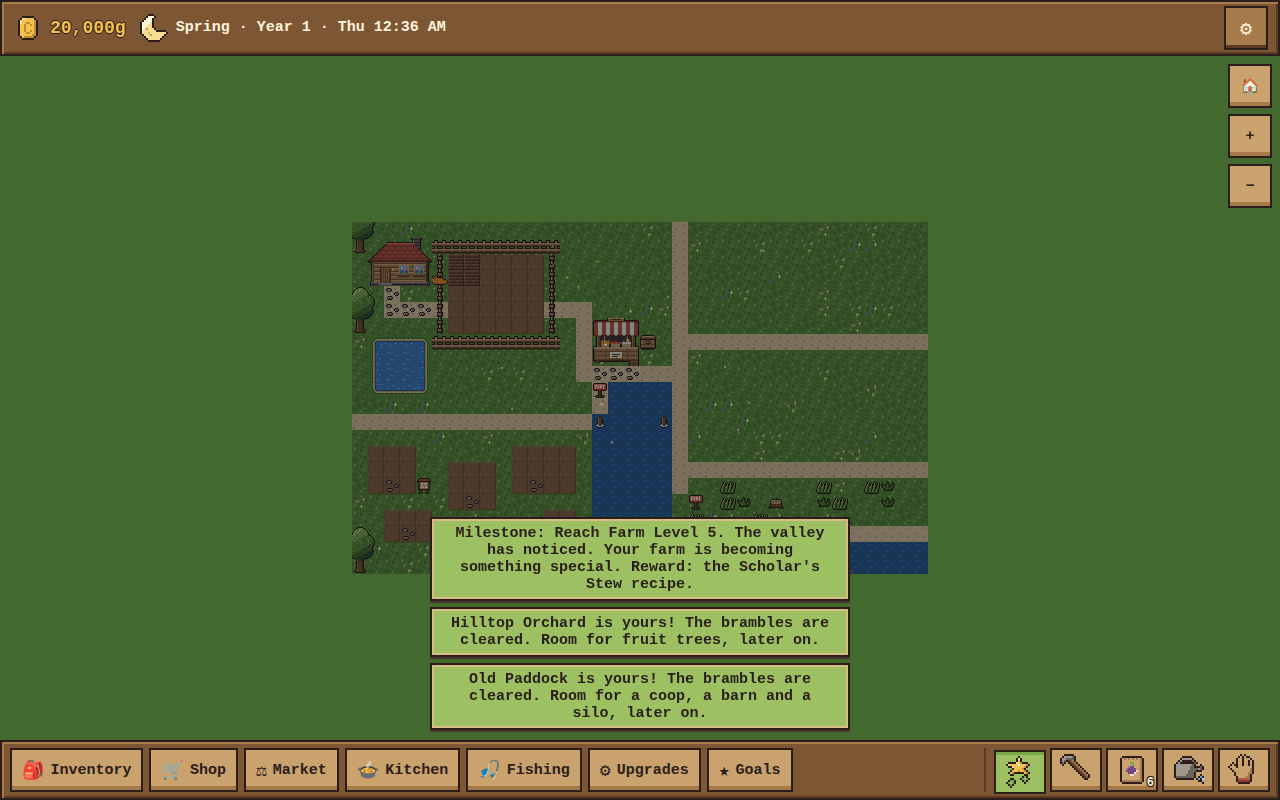
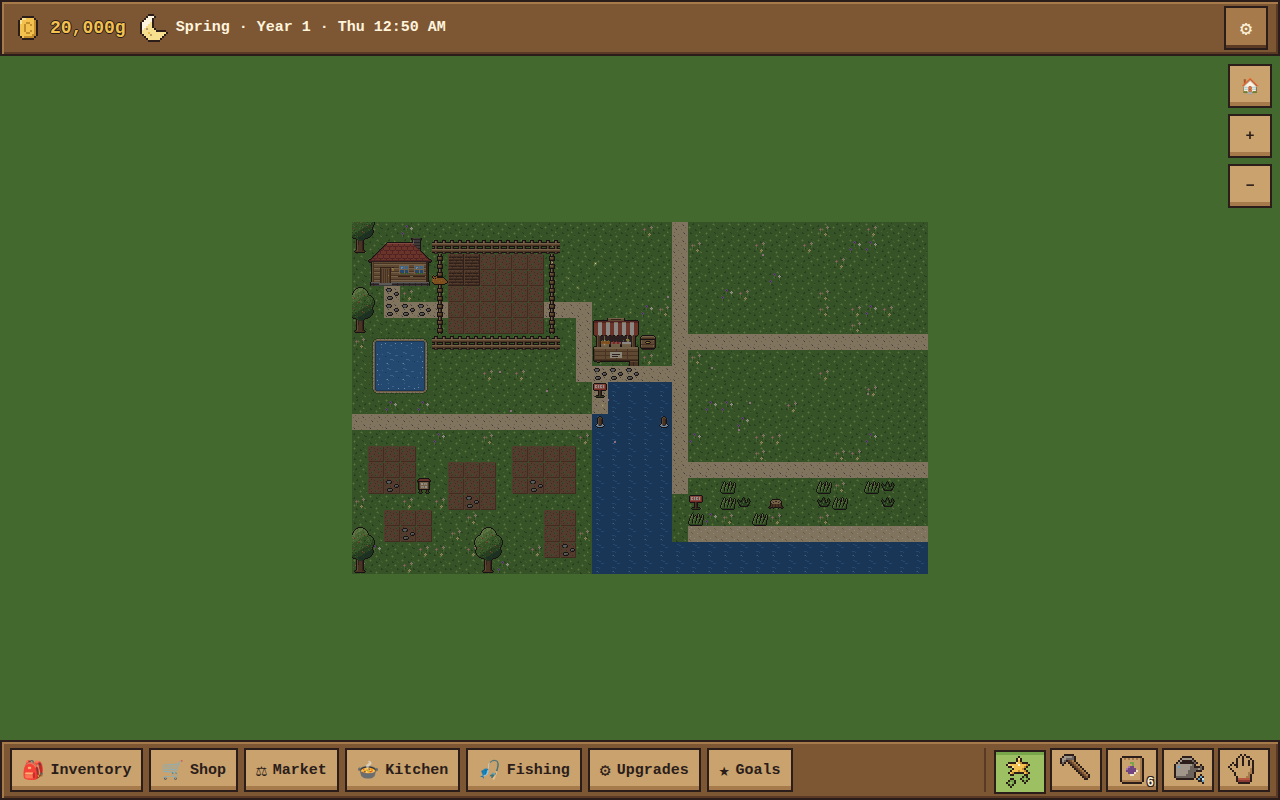
Docs and handoff for v2 phase 01; formatting; fresh screenshots
Claude-Session: https://claude.ai/code/session_017eiNihxdGxUQddQCaLHPR2

Changed region(s): [[0.3125, 0.625, 0.6875, 0.9375]]

diff --git a/src/ui/edgePips.ts b/src/ui/edgePips.ts
@@ -35,8 +35,20 @@ export class EdgePips {
       const b = h(
         'button',
         { type: 'button', class: 'edge-pip', hidden: true, 'data-pip': kind },
-        h('img', { class: 'pixel edge-pip-arrow', alt: '', width: 32, height: 32, src: spriteDataUrl('ui_pip_arrow') }),
-        h('img', { class: 'pixel edge-pip-icon', alt: '', width: 24, height: 24, src: spriteDataUrl(icons[kind] ?? ICON[kind]) }),
+        h('img', {
+          class: 'pixel edge-pip-arrow',
+          alt: '',
+          width: 32,
+          height: 32,
+          src: spriteDataUrl('ui_pip_arrow'),
+        }),
+        h('img', {
+          class: 'pixel edge-pip-icon',
+          alt: '',
+          width: 24,
+          height: 24,
+          src: spriteDataUrl(icons[kind] ?? ICON[kind]),
+        }),
       );
       b.addEventListener('click', () => {
         const at = b.dataset.at?.split(',').map(Number);
@@ -51,7 +63,9 @@ export class EdgePips {
   update(targets: readonly PipTarget[]): void {
     const pips = edgePips(targets, this.renderer.viewRect);
     const box = this.host.getBoundingClientRect();
-    const key = pips.map((p) => `${p.kind}${p.col},${p.row}${p.side}${Math.round(p.x)},${Math.round(p.y)}`).join('|');
+    const key = pips
+      .map((p) => `${p.kind}${p.col},${p.row}${p.side}${Math.round(p.x)},${Math.round(p.y)}`)
+      .join('|');
     if (key === this.key) return;
     this.key = key;
     for (const b of this.buttons.values()) b.hidden = true;

diff --git a/src/render/renderer.ts b/src/render/renderer.ts
@@ -262,7 +262,9 @@ export class Renderer {
     this.canvas.addEventListener('wheel', (e) => this.wheel(e), { passive: false });
     this.canvas.addEventListener('contextmenu', (e) => e.preventDefault());
     document.addEventListener('keydown', (e) => this.keyDown(e));
-    document.addEventListener('keyup', (e) => this.keysHeld.delete(e.key.length === 1 ? e.key.toLowerCase() : e.key));
+    document.addEventListener('keyup', (e) =>
+      this.keysHeld.delete(e.key.length === 1 ? e.key.toLowerCase() : e.key),
+    );
     window.addEventListener('blur', () => this.keysHeld.clear());
     this.farmhand.onWork = (job) => {
       if (job.sprite) this.fx.push({ sprite: job.sprite, col: job.col, row: job.row, start: this.lastTime });
@@ -606,7 +608,13 @@ export class Renderer {
     if (this.resting && this.keysHeld.size === 0) return; // nothing moves: no work, no garbage
     this.keyPan(dtMs, nowMs);
     const arrived = easeToward(this.cam, this.target, dtMs, this.reducedMotion());
-    if (arrived && !this.resting && !this.press.active && this.pointers.size === 0 && this.keysHeld.size === 0) {
+    if (
+      arrived &&
+      !this.resting &&
+      !this.press.active &&
+      this.pointers.size === 0 &&
+      this.keysHeld.size === 0
+    ) {
       this.resting = true;
       this.opts.onCameraRest?.(this.atDefault ? null : { x: this.cam.x, y: this.cam.y, zoom: this.cam.zoom });
     }

diff --git a/tests/scene.test.ts b/tests/scene.test.ts
@@ -44,14 +44,24 @@ describe('scene layout', () => {
     const { animated } = buildLayout(START_GRID);
     const home = animated.filter((a) => a.col < 20 && a.row < 12);
     expect(home.filter((a) => a.sprite === 'tile_water')).toHaveLength(4); // the pond's middle
-    expect(home.filter((a) => a.sprite === 'tile_sea').map((a) => `${a.col},${a.row}`).sort()).toEqual(
-      ['16,10', '16,11', '17,10', '17,11', '18,10', '18,11', '19,10', '19,11'].sort(),
-    );
+    expect(
+      home
+        .filter((a) => a.sprite === 'tile_sea')
+        .map((a) => `${a.col},${a.row}`)
+        .sort(),
+    ).toEqual(['16,10', '16,11', '17,10', '17,11', '18,10', '18,11', '19,10', '19,11'].sort());
     expect(animated.some((a) => a.sprite === 'tile_sea' && a.row === 21 && a.col === 35)).toBe(true);
   });
 
   it('keeps every v1 tile of the home region as v1 drew it, the two documented changes aside', () => {
-    const { ground } = buildLayout({ cols: 8, rows: 6 }, ['farm_1', 'farm_2', 'farm_3', 'farm_4', 'river', 'ocean']);
+    const { ground } = buildLayout({ cols: 8, rows: 6 }, [
+      'farm_1',
+      'farm_2',
+      'farm_3',
+      'farm_4',
+      'river',
+      'ocean',
+    ]);
     expect(ground[2]![6]).toBe('tile_soil_dry');
     expect(ground[7]![13]).toBe('tile_soil_dry');
     expect(ground[9]![14]).toBe('tile_path');

diff --git a/src/render/scene.ts b/src/render/scene.ts
@@ -280,9 +280,11 @@ const SCENERY: readonly Scenery[] = [
   // The Community Board in the town square.
   { sprite: 'obj_board', col: WORLD_LAYOUT.boardTile.col, row: WORLD_LAYOUT.boardTile.row },
   // The town's building sites: a few old stones where each building stood.
-  ...Object.values(WORLD_LAYOUT.townSites).map(
-    (r): Scenery => ({ sprite: 'obj_stones', col: r.col + 1, row: r.row + r.rows - 1 }),
-  ),
+  ...Object.values(WORLD_LAYOUT.townSites).map((r): Scenery => ({
+    sprite: 'obj_stones',
+    col: r.col + 1,
+    row: r.row + r.rows - 1,
+  })),
   // Each locked parcel: its "For sale" sign and overgrowth (tall grass, weeds and a stump or two).
   ...PARCEL_IDS.flatMap((id) => [
     { sprite: 'obj_for_sale', ...WORLD_LAYOUT.forSaleSigns[id], untilParcel: id },

diff --git a/src/ui/upgradesPanel.ts b/src/ui/upgradesPanel.ts
@@ -2,7 +2,14 @@
 // seed planter, auto-seller, greenhouse), the tools and storage. Each card shows the level, what the
 // next level does, its cost and what still locks it; buying flashes the card and says what changed.
 
-import { CROP_IDS, PARCEL_IDS, type ExpansionId, type ItemId, type ParcelId, type UpgradeId } from '../data/ids';
+import {
+  CROP_IDS,
+  PARCEL_IDS,
+  type ExpansionId,
+  type ItemId,
+  type ParcelId,
+  type UpgradeId,
+} from '../data/ids';
 import type { PlacedKind } from '../core/state';
 import type { UpgradeCategory } from '../data/types';
 import { FARM_EXPANSIONS, FISHING_EXPANSIONS } from '../data/expansions';

diff --git a/src/data/ids.ts b/src/data/ids.ts
@@ -104,7 +104,8 @@ export type ExpansionId = 'farm_1' | 'farm_2' | 'farm_3' | 'farm_4' | 'river' | 
 export type ParcelId = 'orchard' | 'yard' | 'meadow';
 
 /** Town projects (v2 phase 02). Only their building sites exist in v2 phase 01, as world layout. */
-export type TownProjectId = 'old_bridge' | 'fountain' | 'bakery' | 'bandstand' | 'lighthouse' | 'community_hall';
+export type TownProjectId =
+  'old_bridge' | 'fountain' | 'bakery' | 'bandstand' | 'lighthouse' | 'community_hall';
 
 export type BuffType =
   'growth' | 'sellPrice' | 'fishingLuck' | 'fishingSpeed' | 'cookSpeed' | 'automationSpeed' | 'xp';

diff --git a/src/core/prefs.ts b/src/core/prefs.ts
@@ -48,7 +48,8 @@ export const DEFAULT_PREFS: Prefs = {
 function sanitizeCamera(raw: unknown): CameraPref | null {
   if (!raw || typeof raw !== 'object') return null;
   const { x, y, zoom } = raw as Record<string, unknown>;
-  if (typeof x !== 'number' || !Number.isFinite(x) || typeof y !== 'number' || !Number.isFinite(y)) return null;
+  if (typeof x !== 'number' || !Number.isFinite(x) || typeof y !== 'number' || !Number.isFinite(y))
+    return null;
   if (typeof zoom !== 'number' || !Number.isInteger(zoom) || zoom < 1 || zoom > MAX_CAMERA_ZOOM) return null;
   return { x, y, zoom };
 }

diff --git a/src/main.ts b/src/main.ts
@@ -706,7 +706,8 @@ function updatePips(): void {
   const s = game.state;
   pipTargets.length = 0;
   for (let i = 0; i < s.farm.plots.length; i++)
-    if (isReady(s.farm.plots[i]!, GAME_DATA)) pipTargets.push({ kind: 'crop', ...tileOfPlot(s.farm.grid, i) });
+    if (isReady(s.farm.plots[i]!, GAME_DATA))
+      pipTargets.push({ kind: 'crop', ...tileOfPlot(s.farm.grid, i) });
   for (let i = 0; i < s.farm.greenhouse.length; i++)
     if (isReady(s.farm.greenhouse[i]!, GAME_DATA))
       pipTargets.push({ kind: 'crop', ...tileOfPlot(s.farm.grid, 1000 + i) });

diff --git a/e2e/helpers.ts b/e2e/helpers.ts
@@ -22,7 +22,10 @@ async function onScreen(page: Page, col: number, row: number): Promise<{ x: numb
       const box = document.getElementById('scene')!.getBoundingClientRect();
       const margin = 24;
       const inside =
-        at.x > box.left + margin && at.x < box.right - 60 && at.y > box.top + margin && at.y < box.bottom - margin;
+        at.x > box.left + margin &&
+        at.x < box.right - 60 &&
+        at.y > box.top + margin &&
+        at.y < box.bottom - margin;
       return inside ? { x: at.x, y: at.y } : null;
     },
     [col, row],

diff --git a/src/render/particles.ts b/src/render/particles.ts
@@ -193,7 +193,10 @@ export class ParticleSystem {
     for (let i = 0; i < this.pool.length; i++) {
       const p = this.pool[i]!;
       if (!p.alive) continue;
-      if (view && (p.x < view.x - 8 || p.y < view.y - 8 || p.x > view.x + view.w + 8 || p.y > view.y + view.h + 8))
+      if (
+        view &&
+        (p.x < view.x - 8 || p.y < view.y - 8 || p.x > view.x + view.w + 8 || p.y > view.y + view.h + 8)
+      )
         continue;
       const t = p.age / p.life;
       f.globalAlpha = p.kind === 'steam' ? 0.6 * (1 - t) : 1 - t * t;

diff --git a/src/render/camera.ts b/src/render/camera.ts
@@ -215,7 +215,8 @@ export class PressGesture {
   /** Returns true once the press has become a pan. */
   move(x: number, y: number): boolean {
     if (!this.active) return false;
-    if (!this.panning && Math.hypot(x - this.startX, y - this.startY) > DRAG_THRESHOLD_PX) this.panning = true;
+    if (!this.panning && Math.hypot(x - this.startX, y - this.startY) > DRAG_THRESHOLD_PX)
+      this.panning = true;
     return this.panning;
   }
 

diff --git a/src/ui/parcelSign.ts b/src/ui/parcelSign.ts
@@ -49,6 +49,9 @@ export function buyParcelDialog(parcel: ParcelId, hooks: ParcelSignHooks): void 
             },
           },
         ]
-      : [{ label: 'Not now' }, { label: 'See Land in Upgrades', primary: true, onClick: () => hooks.openLand() }],
+      : [
+          { label: 'Not now' },
+          { label: 'See Land in Upgrades', primary: true, onClick: () => hooks.openLand() },
+        ],
   });
 }
